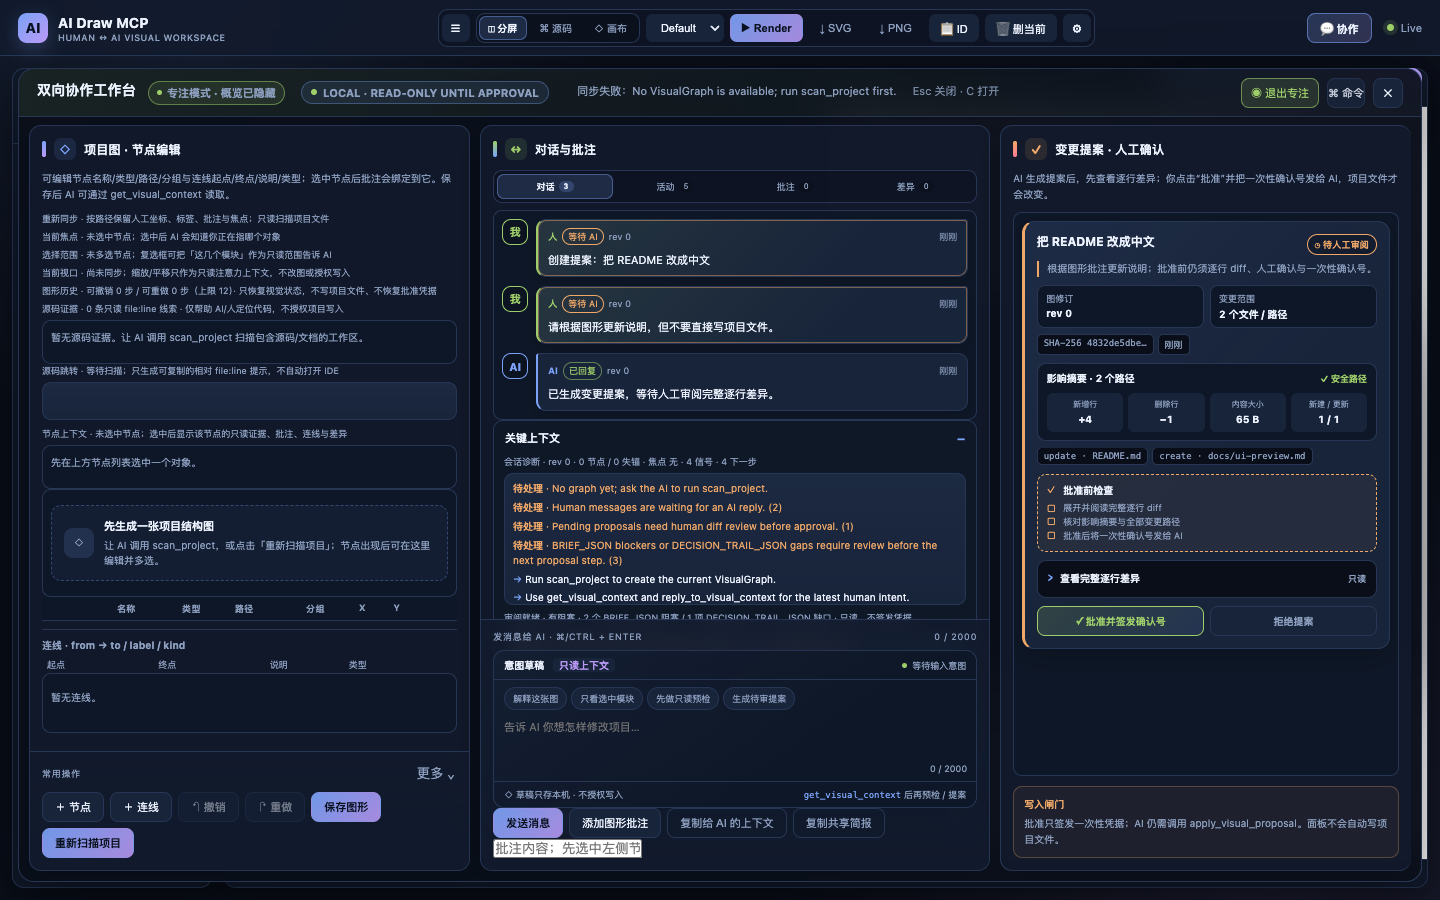
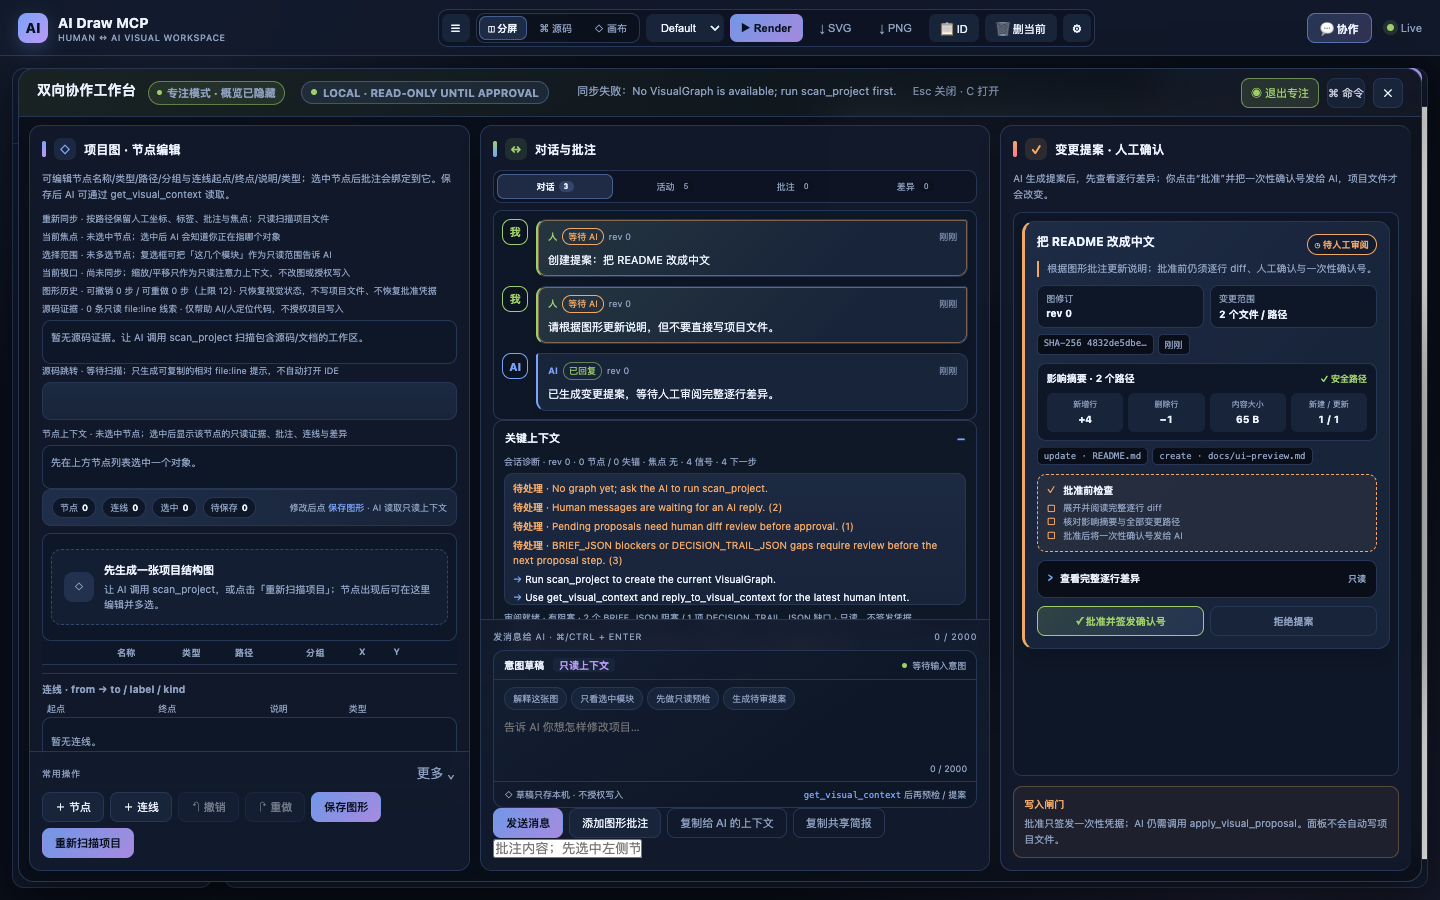
feat: add graph editor status toolbar

Changed region(s): [[0.0312, 0.5289, 0.3125, 0.84], [0.1875, 0.7778, 0.2188, 0.8089]]

diff --git a/src/infra/templates/index.html b/src/infra/templates/index.html
@@ -656,6 +656,14 @@
     .graph-guide-icon { width: 30px; height: 30px; display: grid; place-items: center; border-radius: 9px; background: rgba(122,162,247,.14); color: var(--accent); font-size: 15px; flex-shrink: 0; }
     .graph-guide strong { display: block; color: var(--text); font-size: 11px; margin-bottom: 3px; }
     .graph-guide span { color: var(--text-muted); font-size: 10px; line-height: 1.5; }
+    .graph-toolbar { display: flex; align-items: center; justify-content: space-between; gap: 8px; margin: 0 0 7px; padding: 7px 9px; border: 1px solid var(--border); border-radius: 9px; background: linear-gradient(90deg, rgba(122,162,247,.08), transparent), var(--surface2); }
+    .graph-toolbar-stats { display: flex; align-items: center; gap: 6px; flex-wrap: wrap; }
+    .graph-stat { display: inline-flex; align-items: center; gap: 4px; padding: 3px 7px; border: 1px solid var(--border); border-radius: 999px; background: var(--panel); color: var(--text-muted); font-size: 9px; white-space: nowrap; }
+    .graph-stat strong { color: var(--text); font-variant-numeric: tabular-nums; }
+    .graph-stat.dirty { border-color: rgba(240,168,104,.52); color: var(--orange); }
+    .graph-stat.dirty strong { color: var(--orange); }
+    .graph-toolbar-note { color: var(--text-muted); font-size: 9px; white-space: nowrap; }
+    .graph-toolbar-note code { color: var(--accent); font-size: 9px; }
     #chatLog { display: flex; flex-direction: column; gap: 9px; }
     .chat-empty { display: flex; flex-direction: column; align-items: center; justify-content: center; gap: 7px; min-height: 150px; padding: 18px; border: 1px dashed rgba(122,162,247,.28); border-radius: 11px; background: radial-gradient(circle at 50% 0%, rgba(122,162,247,.08), transparent 65%), var(--panel); color: var(--text-muted); text-align: center; }
     .chat-empty-icon { display: grid; place-items: center; width: 36px; height: 36px; border-radius: 12px; background: rgba(122,162,247,.14); color: var(--accent); font-size: 18px; }
@@ -1142,6 +1150,15 @@
       <div class="diagnostics-list" id="sourceNavigationList"></div>
       <p class="activity-summary" id="nodeContextSummary">节点上下文 · 选中节点即可查看证据、批注、连线与相关图形差异；只读</p>
       <div class="chat-log source-evidence-list" id="nodeContextList"></div>
+      <div class="graph-toolbar" id="graphToolbar">
+        <div class="graph-toolbar-stats">
+          <span class="graph-stat">节点 <strong id="graphNodeCount">0</strong></span>
+          <span class="graph-stat">连线 <strong id="graphEdgeCount">0</strong></span>
+          <span class="graph-stat">选中 <strong id="graphSelectedCount">0</strong></span>
+          <span class="graph-stat" id="graphDirtyStat">待保存 <strong id="graphToolbarDirtyCount">0</strong></span>
+        </div>
+        <span class="graph-toolbar-note">修改后点 <code>保存图形</code> · AI 读取只读上下文</span>
+      </div>
       <div class="graph-editor" id="graphEditor"></div>
       <div class="graph-row-header"><span></span><span>名称</span><span>类型</span><span>路径</span><span>分组</span><span>X</span><span>Y</span><span></span></div>
       <div class="edge-editor">
@@ -2351,6 +2368,16 @@ function updateGraphDirtyState() {
     badge.textContent = String(count);
   }
   $('#btnSaveGraph')?.classList.toggle('has-dirty', count > 0);
+  const nodeCount = $('#graphNodeCount');
+  const edgeCount = $('#graphEdgeCount');
+  const selectedCount = $('#graphSelectedCount');
+  const toolbarCount = $('#graphToolbarDirtyCount');
+  const dirtyStat = $('#graphDirtyStat');
+  if (nodeCount) nodeCount.textContent = String(collabGraph?.nodes?.length || 0);
+  if (edgeCount) edgeCount.textContent = String(collabGraph?.edges?.length || 0);
+  if (selectedCount) selectedCount.textContent = String(selectedNodeIds.length);
+  if (toolbarCount) toolbarCount.textContent = String(count);
+  if (dirtyStat) dirtyStat.classList.toggle('dirty', count > 0);
   renderJourney();
 }
 
@@ -2421,6 +2448,12 @@ function renderSelectionSummary() {
     : '选择范围 · 未多选节点；复选框可把「这几个模块」作为只读范围告诉 AI';
   target.title = '多选范围最多 24 个节点；保存图形、导入会话或节点删除后会自动清除失锚 ID。它不签发批准凭据，也不写项目文件。';
   updateOverview();
+  updateGraphToolbarSelection();
+}
+
+function updateGraphToolbarSelection() {
+  const target = $('#graphSelectedCount');
+  if (target) target.textContent = String(selectedNodeIds.length);
 }
 
 function updateOverview() {

diff --git a/CHANGELOG.md b/CHANGELOG.md
@@ -12,6 +12,7 @@ The format is based on [Keep a Changelog](https://keepachangelog.com/en/1.1.0/),
 
 ### Maintenance
 
+- 图形编辑状态条（2026-11-06 12:50 CST）：节点编辑区上方新增紧凑状态条，实时显示节点数、连线数、选择范围与待保存行数；待保存状态用橙色强调，并与既有 dirty 提示、保存按钮、流程导航共享同一份本地派生状态。状态条不新增服务端字段、不改图修订或批准流程；浏览器回归与离线守卫同步覆盖。
 - 意图输入体验（2026-11-06 12:35 CST）：对话操作栏改成「意图草稿」卡片，加入本机草稿恢复、四个快捷意图模板、发送中/成功/失败状态、主按钮草稿高亮与「先读上下文再预检/提案」的只读提示。模板只填入本机输入框，不自动发送；发送成功才清空草稿，失败保留原文。命令面板也加入「解释这张图」快捷动作。草稿只在浏览器 localStorage，不进入协作会话、不签发凭据、不调用项目写入；浏览器回归、离线守卫、README 与截图脚本同步覆盖。
 - 协作专注模式（2026-11-06 12:20 CST）：工作台顶栏新增「◎ 专注」开关、`7` 快捷键与命令面板动作；开启后隐藏概览统计、健康卡与四步流程条，放大项目图 / 对话 / 提案三栏，并显示专注状态徽章。偏好写入本机 localStorage，刷新后保持，但只影响布局；不改会话、提案、批准凭据或写入闸门。`npm run ui:shots` 现在额外生成 `docs/collaboration-focus-panel.png`，README 直接展示放大后的工作台；浏览器回归、离线守卫、快捷键表与 CHANGELOG 同步覆盖。
 - 可搜索命令面板（2026-11-06 12:05 CST）：新增 `?` 快捷键、欢迎页入口和「⌘ 命令」按钮，打开可搜索的本机命令列表；支持 `↑ / ↓`、`Enter`、`Esc`、关键词筛选、分组标签和快捷键提示，把分屏/源码/画布、协作三栏、适应窗口、示例图形、主题切换与外观设置收在一个入口。命令只触发已有前端函数，不调用 MCP 工具、不改会话、不批准提案、不签发凭据或写项目文件；浏览器回归、离线守卫、README、CHANGELOG 与截图入口同步覆盖。
